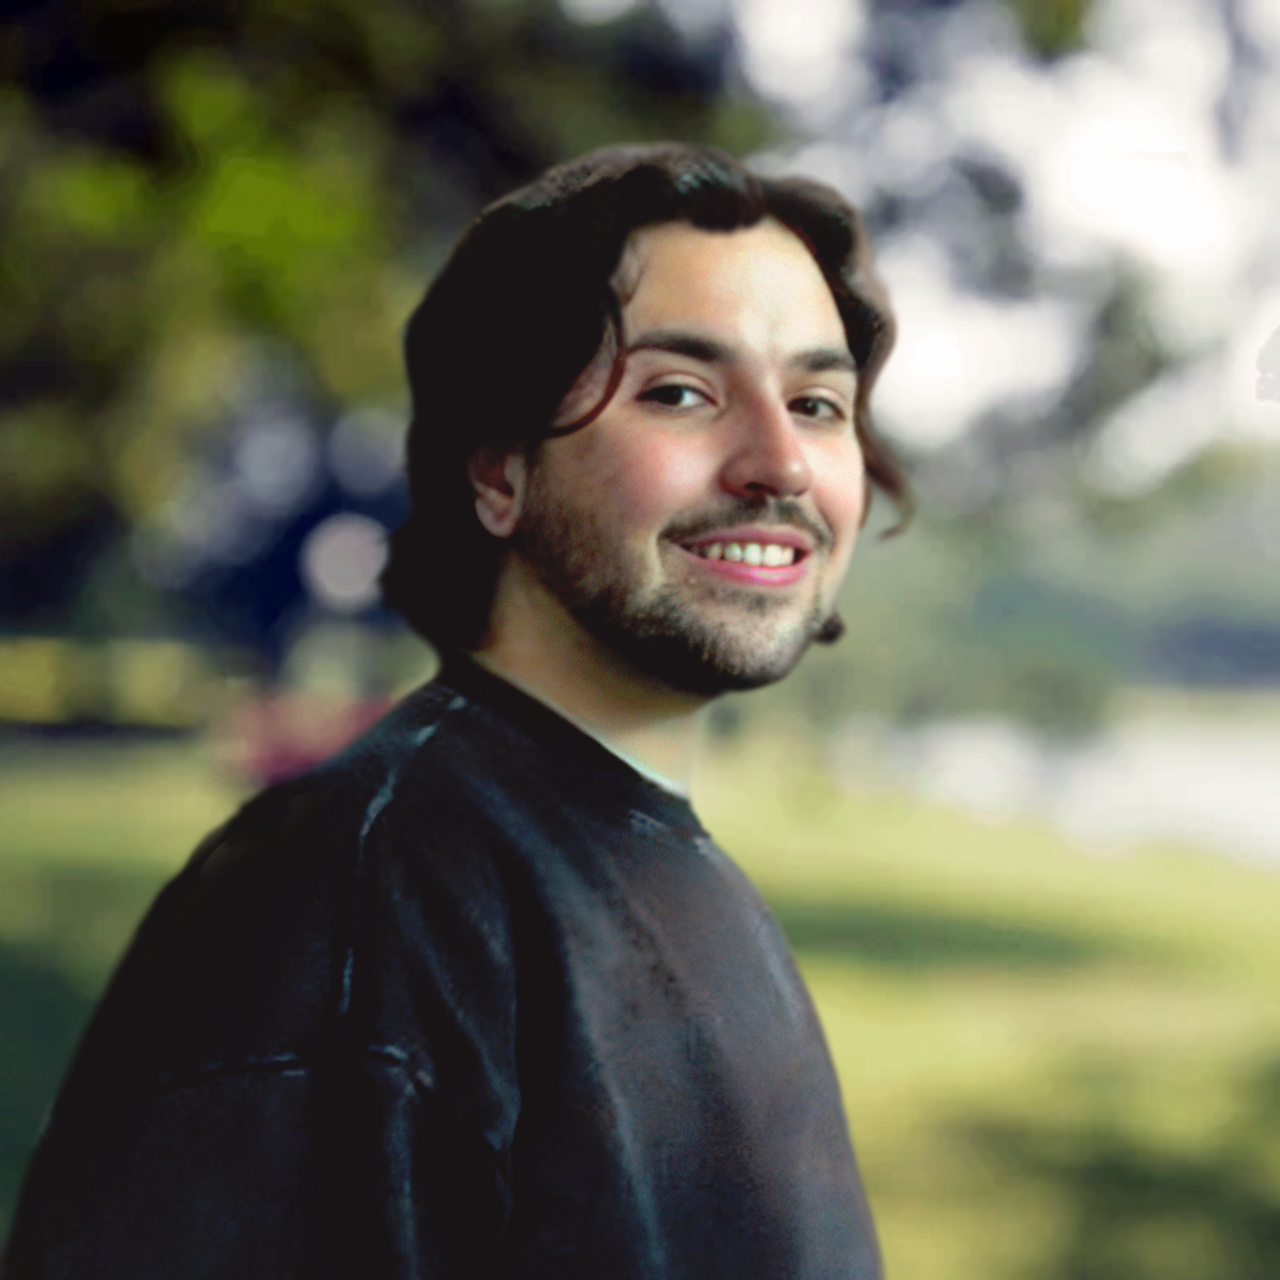
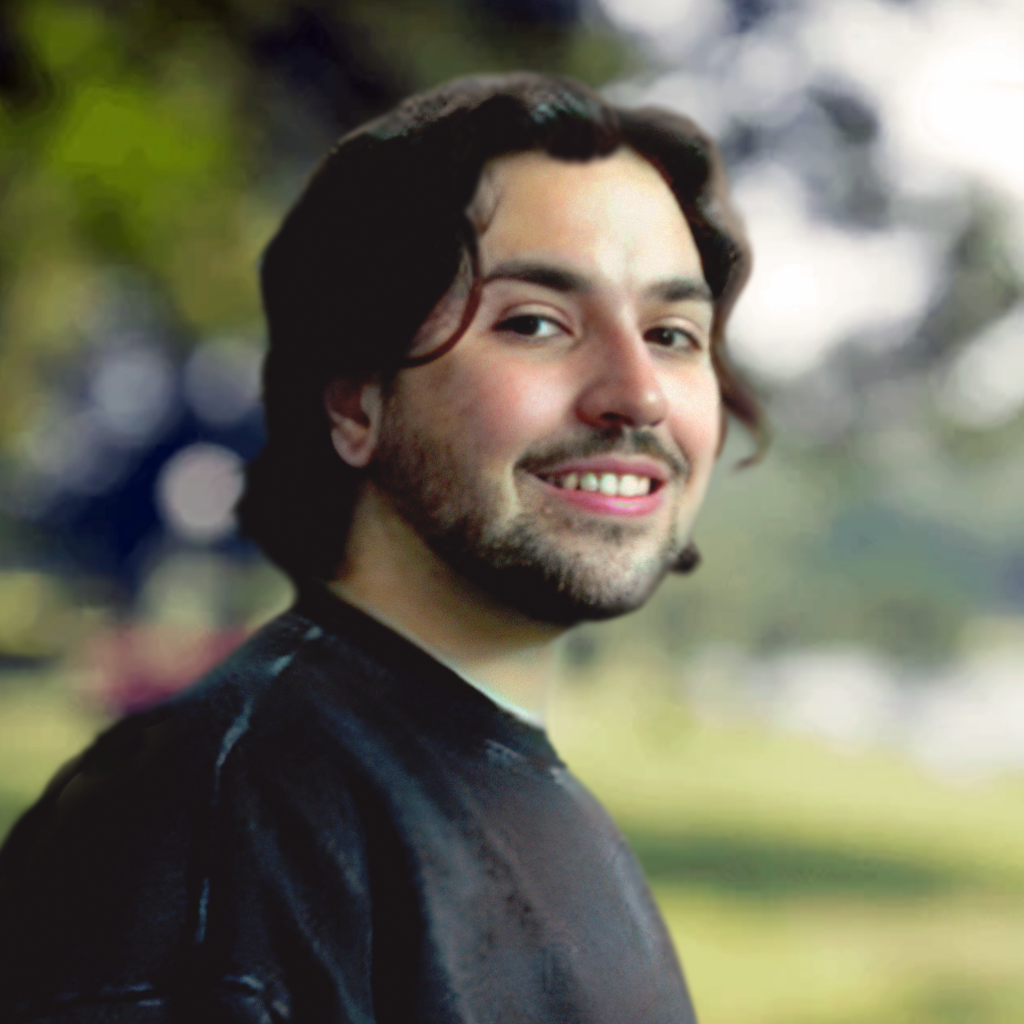
Welcome page done

diff --git a/src/components/Welcome.jsx b/src/components/Welcome.jsx
@@ -1,7 +1,21 @@
+import { useEffect, useLayoutEffect, useState } from 'react';
 import { styles } from '../styles';
 import { RetroDitheredCanvas } from './canvas';
 import { motion } from 'framer-motion';
 import { github, linkedin, me } from '../assets';
+
+const useIsPortrait = () => {
+  const [isPortrait, setIsPortrait] = useState(window.innerHeight > window.innerWidth);
+
+  useLayoutEffect(() => {
+    const onResize = () => setIsPortrait(window.innerHeight > window.innerWidth);
+    window.addEventListener('resize', onResize);
+    onResize();
+    return () => window.removeEventListener('resize', onResize);
+  }, []);
+
+  return isPortrait;
+};
 
 const ScrollIndicator = () => (
   <div className="w-[32px] h-[54px] rounded-3xl border-4 border-secondary flex justify-center items-start p-2">
@@ -13,97 +27,99 @@ const ScrollIndicator = () => (
   </div>
 );
 
-const MainScreen = () => {
+const ProfileImageAndSocials = ({ isPortrait }) => {
+  const sizeClass = isPortrait
+    ? 'w-[60%] max-w-72'
+    : 'w-[15vw] min-w-[160px] max-w-[220px]';
+
   const socialLinks = [
     {
       href: 'https://github.com/nickcyran',
-      alt: "GitHub",
+      alt: 'GitHub',
       icon: github,
       ariaLabel: "Nick's GitHub Profile",
-      iconClassName: "w-8 h-8"
+      iconClassName: 'w-8 h-8',
     },
     {
       href: 'https://www.linkedin.com/in/nicolas-cyran/',
-      alt: "LinkedIn",
+      alt: 'LinkedIn',
       icon: linkedin,
       ariaLabel: "Nick's LinkedIn Profile",
-      iconClassName: "w-7 h-7"
-    }
+      iconClassName: 'w-7 h-7',
+    },
   ];
 
-  const ProfileImageAndSocials = () => (
-    <div className={`flex flex-col items-center flex-shrink-0 w-auto lg:pt-24`}>
+  return (
+    <div className={`flex flex-col items-center flex-shrink-0 ${sizeClass}`}>
       <img
-        className="w-40 h-40 rounded-full object-cover border-[3px] border-secondary shadow-xl mb-3"
         src={me}
         alt="Nick - Software Developer"
+        className="w-full aspect-square rounded-full object-cover border-[3px] border-secondary shadow-xl mb-3"
       />
-      <div className="flex space-x-4 mx-auto ">
-        {socialLinks.map(link => (
+      <div className="flex space-x-4 mx-auto">
+        {socialLinks.map((link) => (
           <a
             key={link.alt}
             href={link.href}
             target="_blank"
             rel="noopener noreferrer"
-            className="text-gray-300 hover:opacity-75 transition-opacity duration-300 flex items-center justify-center p-1"
             aria-label={link.ariaLabel}
+            className="text-gray-300 hover:opacity-75 transition-opacity duration-300 flex items-center justify-center p-1"
           >
-            <img src={link.icon} alt={link.alt} className={`${link.iconClassName} object-contain`} />
+            <img
+              src={link.icon}
+              alt={link.alt}
+              className={`${link.iconClassName} object-contain`}
+            />
           </a>
         ))}
       </div>
     </div>
   );
+};
 
-  const IntroText = () => (
-    <div className={`
-      flex flex-col text-center flex-grow mt-6 md:mt-0 md:order-3  
-      sm:text-center sm:w-full                        
-      lg:text-left lg:pt-24 md:w-auto lg:max-w-[42vw]  lg:order-2                        
-    `}>
-      <h1 className={`${styles.mainText} z-20`}>
-        Hey, I'm <span className="nick-dithered-gradient" data-text="Nick">Nick</span>
-      </h1>
-      <p className={`${styles.mainSubText} mt-3 w-full max-w-prose`}>
-        I'm a software developer who's passionate about bringing my ideas to life through code.
-        I enjoy a challenge; solving intricate puzzles is what I do best!
-      </p>
-    </div>
-  );
+const IntroText = ({ isPortrait }) => (
+  <div className={`flex flex-col ${isPortrait ? 'w-full items-center text-center mt-6' : 'flex-1 mt-6'}`}>
+    <h1 className={`${isPortrait ? styles.mainText : 'text-[clamp(3rem,3.6vw,4.5rem)]'} z-20 leading-tight`}>
+      Hey, I'm <span className="nick-dithered-gradient" data-text="Nick">Nick</span>
+    </h1>
+    <p className={`${isPortrait ? styles.mainSubText : 'text-[clamp(1.125rem,1.8vw,1.875rem)]'} mt-2 w-full max-w-prose`}>
+      I'm a software developer who's passionate about bringing my ideas to life through code.
+      I enjoy a challenge; solving intricate puzzles is what I do best!
+    </p>
+  </div>
+);
 
-  const CanvasDisplay = () => (
-    <div className={`sm:order-3 md:order-2`}>
-      <div className="w-[90vw] xs:w-[28rem] sm:w-[28rem] md:w-[22rem] lg:w-[30rem] xl:w-[40rem] h-auto aspect-square">
-        <RetroDitheredCanvas />
-      </div>
-    </div>
-  );
+const CanvasDisplay = ({ isPortrait }) => (
+  <div className={`${isPortrait ? 'mt-4 w-[80%] max-w-2xl' : 'w-[33vw]'} aspect-square`}>
+    <RetroDitheredCanvas />
+  </div>
+);
+
+const MainScreen = () => {
+  const isPortrait = useIsPortrait();
 
   return (
-    <section className="scanlines relative w-full min-h-screen mx-auto flex flex-col bg-[#0D0E0E] shadow-[inset_0_-15px_22px_0_rgba(0,0,0,0.7)]  animated-gradient-bg">
-      <div className='absolute inset-0 bg-tile-pattern bg-repeat opacity-[2%]' style={{ zIndex: 0 }} />
+    <section className="scanlines relative w-full min-h-screen flex flex-col bg-[#0D0E0E] shadow-[inset_0_-15px_22px_0_rgba(0,0,0,0.7)] animated-gradient-bg">
+      <div className="absolute inset-0 bg-tile-pattern bg-repeat opacity-[2%]" style={{ zIndex: 0 }} />
 
       <div
-        className={`
-        relative z-10 mx-auto flex flex-col items-center justify-start 
-        flex-grow w-full px-4 pt-20
-
-        md:pt-20 md:items-center md:flex-row md:flex-wrap md:justify-center md:gap-x-5    
-        lg:items-start lg:flex-row lg:flex-nowrap lg:gap-x-5 lg:pt-32        
-      `}>
-
-        <ProfileImageAndSocials />
-        <IntroText />
-        <CanvasDisplay />
+        className={`relative z-10 w-full max-w-[117rem] px-6 mx-auto flex
+        ${isPortrait ? 'flex-col items-center pt-24' : 'flex-row items-center justify-between pt-10'}
+        flex-grow gap-x-10`}
+      >
+        <ProfileImageAndSocials isPortrait={isPortrait} />
+        <IntroText isPortrait={isPortrait} />
+        <CanvasDisplay isPortrait={isPortrait} />
       </div>
 
-      <div className="w-full flex justify-center items-center py-4 sm:py-6 md:py-8 z-10">
+      <div className="w-full flex justify-center items-center py-8 z-10">
         <a href="#about" aria-label="Go to about section">
           <ScrollIndicator />
         </a>
       </div>
     </section>
   );
-}
+};
 
 export default MainScreen;

diff --git a/src/components/canvas/RetroDitheredCanvas.jsx b/src/components/canvas/RetroDitheredCanvas.jsx
@@ -10,7 +10,7 @@ import CanvasLoader from '../Loader';
 extend({ EffectComposer, ShaderPass, RenderPass });
 
 const CONFIG = {
-  pixelSize: 1.5,
+  pixelSize: 2,
   bayerSize: 12.0,
   ambientLight: 0.19,
   directionalLight: 2.75,
@@ -162,7 +162,7 @@ const Scene = () => {
 
 export default function RetroDitheredCanvas() {
   return (
-    <div className="relative w-full aspect-square">
+    <div className="relative w-full h-auto aspect-square">
       <Canvas shadows camera={{ position: [0, 2, 18], fov: 45 }} dpr={[1, 2]}>
         <Suspense fallback={<CanvasLoader />}>
           <ambientLight intensity={CONFIG.ambientLight} />

diff --git a/src/styles.js b/src/styles.js
@@ -2,7 +2,7 @@ const styles = {
   paddingX: "sm:px-16 px-6",
 
   mainText:
-    "text-white font-black xl:text-[80px] lg:text-[60px] sm:text-[60px] xs:text-[50px] text-[40px] lg:leading-[98px] mt-2",
+    "text-white font-black xl:text-[20] lg:text-[60px] sm:text-[60px] xs:text-[50px] text-[40px] lg:leading-[98px] mt-2",
   mainSubText:
     "text-white font-medium  xl:text-[30px] lg:text-[28px] sm:text-[30px] xs:text-[26px] text-[20px] lg:leading-[40px]",
 

diff --git a/src/constants/index.js b/src/constants/index.js
@@ -144,12 +144,12 @@ const projects = [
         color: "pink-text-gradient",
       },
       {
-        name: "binary",
-        color: "blue-text-gradient",
-      },
-      {
         name: "assembly",
         color: "green-text-gradient",
+      },  
+      {
+        name: "binary",
+        color: "blue-text-gradient",
       },
     ],
     image: sia32,

diff --git a/src/index.css b/src/index.css
@@ -15,6 +15,10 @@
   color-scheme: dark;
 }
 
+.test {
+  border: 1px solid red;
+}
+
 .shadow-inner {
   box-shadow: inset 0 0 10px rgba(0, 0, 0, 0.7);
 }
